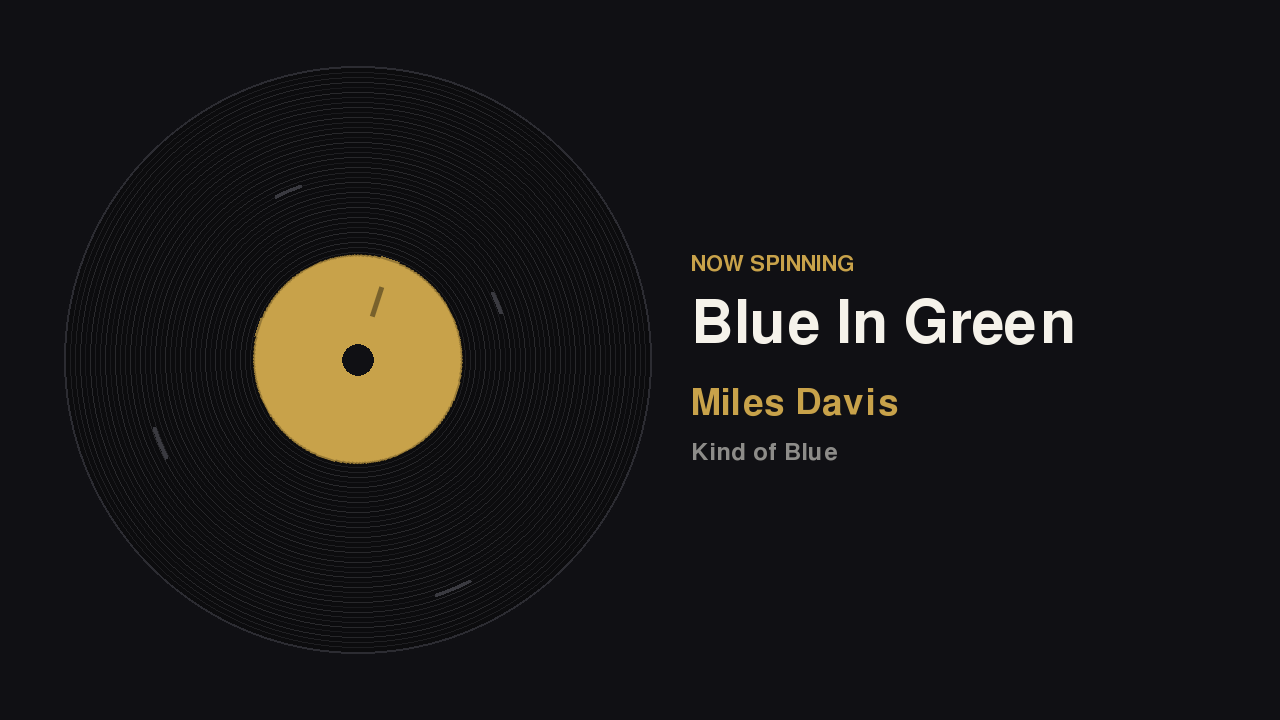
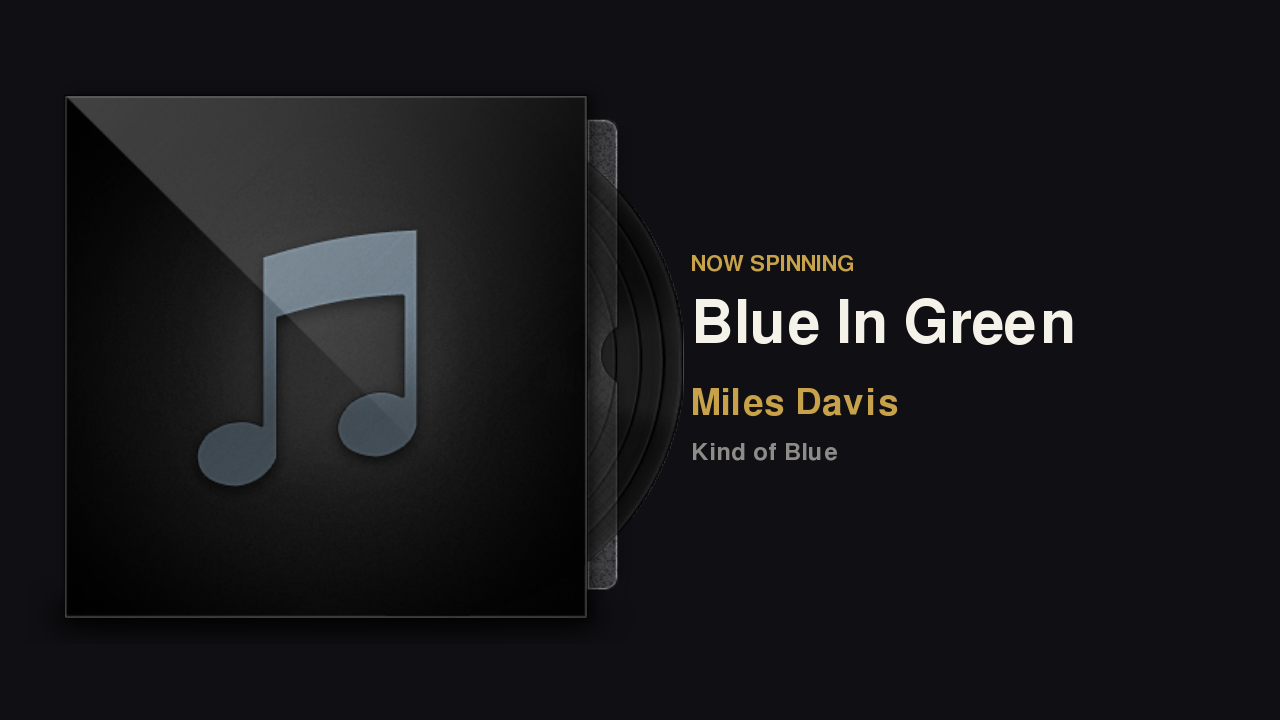
display: add a record-sleeve style and make it the default
Cover art in a sleeve with the disc pulled halfway out, after the "Massive
Vinyl 2" Bowtie theme. The sleeve image is composited over the artwork rather
than masking it: its sleeve region is black at alpha 6-61, so it reads as gloss
and shading on whatever is underneath, while the disc region is opaque.

The cover's position comes from the original theme's stylesheet -- a 355x355
window at (27, 14) in the 453x387 sheet -- kept as fractions so it survives
scaling. A test pins that at native size, since the numbers are otherwise
unverifiable magic.

The sleeve gets its own box rather than reusing the platter's diameter; being
wider than it is tall, a square box left it floating with most of the panel's
height unused. A missing asset falls back to the record style rather than
drawing nothing.

Verified the assets land in a built wheel -- a packaging slip here would only
appear at runtime on someone else's machine.

Artwork credited in NOTICE and the screenshot regenerated.

diff --git a/nowspinning/ui/pygame_display.py b/nowspinning/ui/pygame_display.py
@@ -1,13 +1,15 @@
-"""Full-screen spinning-record renderer.
+"""Full-screen now-playing renderer.
 
 Runs on the framebuffer through KMS/DRM, so a Raspberry Pi OS Lite install with no
 desktop environment can boot straight into this. It must own the main thread --
 SDL requires it -- so the engine runs on an event loop in a background thread and
 this side only ever reads snapshots.
 
-Only the label rotates, plus a few groove-gap arcs drawn procedurally. Rotating the
-whole platter every frame is what a real record looks like, but it is also the one
-thing guaranteed to cost more than a Pi Zero has to spare.
+Two styles. ``sleeve`` composites the cover behind a sleeve image and is static,
+so it costs nothing per frame once the cover is cached. ``record`` rotates only the
+label plus a few groove-gap arcs: turning the whole platter every frame is what a
+real record looks like, and also the one thing guaranteed to cost more than a Pi
+Zero has to spare.
 """
 
 from __future__ import annotations
@@ -30,6 +32,14 @@ log = logging.getLogger(__name__)
 #: intended deployment is a Pi with no desktop; the rest let the same command
 #: work on a desktop image.
 DRIVER_PREFERENCE: tuple[str, ...] = ("kmsdrm", "wayland", "x11")
+
+ASSETS = Path(__file__).with_name("assets")
+
+#: Where the cover sits inside sleeve.png, as fractions of that image. Taken from
+#: the original theme's stylesheet: a 355x355 window at (27, 14) in a 453x387
+#: sheet, which is why the artwork reads as square despite the sleeve being taller
+#: than it is wide.
+ART_WINDOW = (27 / 453, 14 / 387, 355 / 453, 355 / 387)
 
 Color = tuple[int, int, int]
 
@@ -95,6 +105,8 @@ class PygameDisplay:
         self._clock: Any = None
         self._platter: Any = None
         self._label_cache: dict[str, Any] = {}
+        self._sleeve_cache: dict[tuple[int, int], Any] = {}
+        self._cover_cache: dict[tuple[str, int, int], Any] = {}
         self._fonts: dict[int, Any] = {}
         self._platter_size = 0
 
@@ -253,8 +265,87 @@ class PygameDisplay:
             # middle of the record rather than floating above it.
             text_rect = (text_left, 0, width - text_left - int(width * 0.06), height)
 
-        self._draw_record(centre, diameter, state)
+        if self.config.display.style == "sleeve":
+            # The sleeve is wider than it is tall, so it gets its own box rather
+            # than the platter's diameter, which would leave it floating in a
+            # square and wasting most of the panel's height.
+            if stacked:
+                box_size = (int(width * 0.86), int(height * 0.54))
+            else:
+                box_size = (int(width * 0.52), int(height * 0.92))
+            box = self._pygame.Rect((0, 0), box_size)
+            box.center = centre
+            self._draw_sleeve(box, state)
+        else:
+            self._draw_record(centre, diameter, state)
         self._draw_panel(text_rect, state, centred=stacked)
+
+    # -- sleeve ----------------------------------------------------------
+
+    def _draw_sleeve(self, box: Any, state: NowPlaying) -> None:
+        """Cover art in a record sleeve, disc protruding, after the Bowtie theme."""
+        sleeve = self._get_sleeve(box.width, box.height)
+        if sleeve is None:  # asset missing; fall back rather than show nothing
+            self._draw_record(box.center, min(box.width, box.height), state)
+            return
+        rect = sleeve.get_rect(center=box.center)
+        window = self._art_window(rect)
+        cover = self._get_cover(window.width, window.height, state)
+        if cover is not None:
+            self._screen.blit(cover, window)
+        self._screen.blit(sleeve, rect)
+
+    @staticmethod
+    def _art_window(sleeve_rect: Any) -> Any:
+        """The cover's rect inside a drawn sleeve."""
+        fx, fy, fw, fh = ART_WINDOW
+        rect = sleeve_rect.copy()
+        rect.x = sleeve_rect.x + round(sleeve_rect.width * fx)
+        rect.y = sleeve_rect.y + round(sleeve_rect.height * fy)
+        rect.width = round(sleeve_rect.width * fw)
+        rect.height = round(sleeve_rect.height * fh)
+        return rect
+
+    def _get_sleeve(self, max_width: int, max_height: int) -> Any:
+        """sleeve.png scaled to fit the box, keeping its proportions."""
+        key = (max_width, max_height)
+        cached = self._sleeve_cache.get(key)
+        if cached is not None:
+            return cached
+        pygame = self._pygame
+        try:
+            image = pygame.image.load(str(ASSETS / "sleeve.png"))
+        except Exception as exc:
+            log.warning("could not load the sleeve asset: %s", exc)
+            return None
+        with contextlib.suppress(pygame.error):
+            image = image.convert_alpha()
+        scale = min(max_width / image.get_width(), max_height / image.get_height())
+        size = (max(1, int(image.get_width() * scale)), max(1, int(image.get_height() * scale)))
+        scaled = pygame.transform.smoothscale(image, size)
+        self._sleeve_cache[key] = scaled
+        return scaled
+
+    def _get_cover(self, width: int, height: int, state: NowPlaying) -> Any:
+        """The cover to sit behind the sleeve, or the theme's placeholder."""
+        path = state.artwork_path
+        key = (str(path) if path else "", width, height)
+        cached = self._cover_cache.get(key)
+        if cached is not None:
+            return cached
+        pygame = self._pygame
+        source = Path(path) if path else ASSETS / "sleeve-noart.png"
+        try:
+            image = pygame.image.load(str(source))
+        except Exception as exc:
+            log.warning("could not load cover %s: %s", source, exc)
+            return None
+        with contextlib.suppress(pygame.error):
+            image = image.convert_alpha()
+        scaled = pygame.transform.smoothscale(image, (max(1, width), max(1, height)))
+        # One entry is enough: the cover only changes when the track does.
+        self._cover_cache = {key: scaled}
+        return scaled
 
     def _draw_record(self, centre: tuple[int, int], diameter: int, state: NowPlaying) -> None:
         pygame = self._pygame

diff --git a/tests/test_pygame_display.py b/tests/test_pygame_display.py
@@ -9,6 +9,7 @@ with no keyboard attached.
 from __future__ import annotations
 
 import os
+from pathlib import Path
 
 import pytest
 
@@ -20,6 +21,7 @@ from nowspinning.config import Config, DisplayConfig
 from nowspinning.recognize.base import Track
 from nowspinning.state import NowPlaying, StateStore
 from nowspinning.ui.pygame_display import (
+    ASSETS,
     PygameDisplay,
     Theme,
     mix,
@@ -297,3 +299,87 @@ class TestFullscreenSizing:
         size, flags = d._display_mode()
         assert size == (0, 0)
         assert not flags & d._pygame.SCALED
+
+
+class TestSleeveStyle:
+    """Cover art in a record sleeve, after the Bowtie 'Massive Vinyl' theme."""
+
+    def _display(self, config, size=(480, 320)):
+        config.display.width, config.display.height = size
+        config.display.fullscreen = False
+        d = PygameDisplay(config, StateStore())
+        d._pygame = d._init_pygame()
+        d._open_window()
+        return d
+
+    def test_sleeve_is_the_default_style(self, config):
+        assert config.display.style == "sleeve"
+
+    def test_the_assets_are_installed_beside_the_module(self):
+        # These ship in the wheel; a packaging slip would only show at runtime
+        # on someone else's machine, which is the worst place to find it.
+        assert (ASSETS / "sleeve.png").is_file()
+        assert (ASSETS / "sleeve-noart.png").is_file()
+
+    def test_the_art_window_matches_the_original_theme(self, config):
+        # At the asset's native size the window must land exactly where the
+        # theme's stylesheet put it: 355x355 at (27, 14) in a 453x387 sheet.
+        d = PygameDisplay(config, StateStore())
+        d._pygame = d._init_pygame()
+        rect = d._pygame.Rect(0, 0, 453, 387)
+        window = d._art_window(rect)
+        assert (window.x, window.y) == (27, 14)
+        assert (window.width, window.height) == (355, 355)
+
+    def test_the_art_window_moves_with_the_sleeve(self, config):
+        d = PygameDisplay(config, StateStore())
+        d._pygame = d._init_pygame()
+        at_origin = d._art_window(d._pygame.Rect(0, 0, 453, 387))
+        shifted = d._art_window(d._pygame.Rect(100, 50, 453, 387))
+        assert (shifted.x - at_origin.x, shifted.y - at_origin.y) == (100, 50)
+        assert shifted.size == at_origin.size
+
+    def test_the_cover_stays_inside_the_sleeve(self, config):
+        d = PygameDisplay(config, StateStore())
+        d._pygame = d._init_pygame()
+        sleeve = d._pygame.Rect(0, 0, 453, 387)
+        assert sleeve.contains(d._art_window(sleeve))
+
+    def test_it_draws_with_no_artwork(self, config):
+        d = self._display(config)
+        d.store.update(status="playing", track=TRACK)
+        d.draw(d.store.snapshot())  # placeholder path
+
+    def test_it_draws_with_artwork(self, config, tmp_path):
+        cover = tmp_path / "cover.png"
+        surface = self._display(config)._pygame.Surface((300, 300))
+        surface.fill((10, 120, 200))
+        self._display(config)._pygame.image.save(surface, str(cover))
+        d = self._display(config)
+        d.store.update(status="playing", track=TRACK, artwork_path=cover)
+        d.draw(d.store.snapshot())
+
+    def test_a_missing_asset_falls_back_to_the_record(self, config, monkeypatch):
+        # Rendering nothing at all would be worse than the other style.
+        import nowspinning.ui.pygame_display as mod
+
+        monkeypatch.setattr(mod, "ASSETS", Path("/nonexistent"))
+        d = self._display(config)
+        d.store.update(status="playing", track=TRACK)
+        d.draw(d.store.snapshot())
+
+    def test_the_record_style_still_works(self, config):
+        config.display.style = "record"
+        d = self._display(config)
+        d.store.update(status="playing", track=TRACK)
+        d.draw(d.store.snapshot())
+
+    def test_an_unknown_style_is_rejected(self):
+        with pytest.raises(ValidationError):
+            DisplayConfig(style="hologram")
+
+    @pytest.mark.parametrize("size", [(480, 320), (320, 480), (1280, 720), (240, 240)])
+    def test_it_draws_at_any_panel_size(self, config, size):
+        d = self._display(config, size)
+        d.store.update(status="playing", track=TRACK)
+        d.draw(d.store.snapshot())

diff --git a/nowspinning/config.py b/nowspinning/config.py
@@ -131,6 +131,13 @@ class DisplayConfig(_Base):
     """Look and feel of the record animation."""
 
     backend: Literal["pygame", "web", "both", "none"] = "pygame"
+    style: Literal["sleeve", "record"] = Field(
+        default="sleeve",
+        description=(
+            "'sleeve' shows the cover in a record sleeve with the disc peeking out; "
+            "'record' shows the cover on a spinning platter."
+        ),
+    )
     fullscreen: bool = True
     width: int = Field(default=0, ge=0, description="0 = use the display's native size.")
     height: int = Field(default=0, ge=0)

diff --git a/README.md b/README.md
@@ -9,8 +9,10 @@ attached display with the track, artist, and album.
 
 ![The pygame display showing a spinning record with the track, artist, and album](docs/screenshot.png)
 
-The record turns while music is playing, and the label shows the cover art once it
-has been fetched.
+Two styles, set with `display.style`. **`sleeve`** (the default, shown above) puts
+the cover in a record sleeve with the disc pulled halfway out; **`record`** puts it
+on the label of a turning platter. Both fall back to a placeholder until the cover
+art has been fetched.
 
 ## How it works
 
@@ -126,6 +128,7 @@ The keys worth knowing:
 | `recognizer.recheck_interval_seconds` | `45.0` | Cadence for catching track changes |
 | `recognizer.linger_seconds` | `90.0` | How long the last track survives silence |
 | `display.backend` | `pygame` | `pygame`, `web`, `both`, or `none` |
+| `display.style` | `sleeve` | `sleeve` (cover in a record sleeve) or `record` (cover on a spinning platter) |
 | `display.rpm` | `33.333` | Rotation speed — `45.0` for a single |
 | `display.device_index` | system default | Which `/dev/dri/card` to draw on; needed for a GPIO/SPI panel, usually `1` |
 
